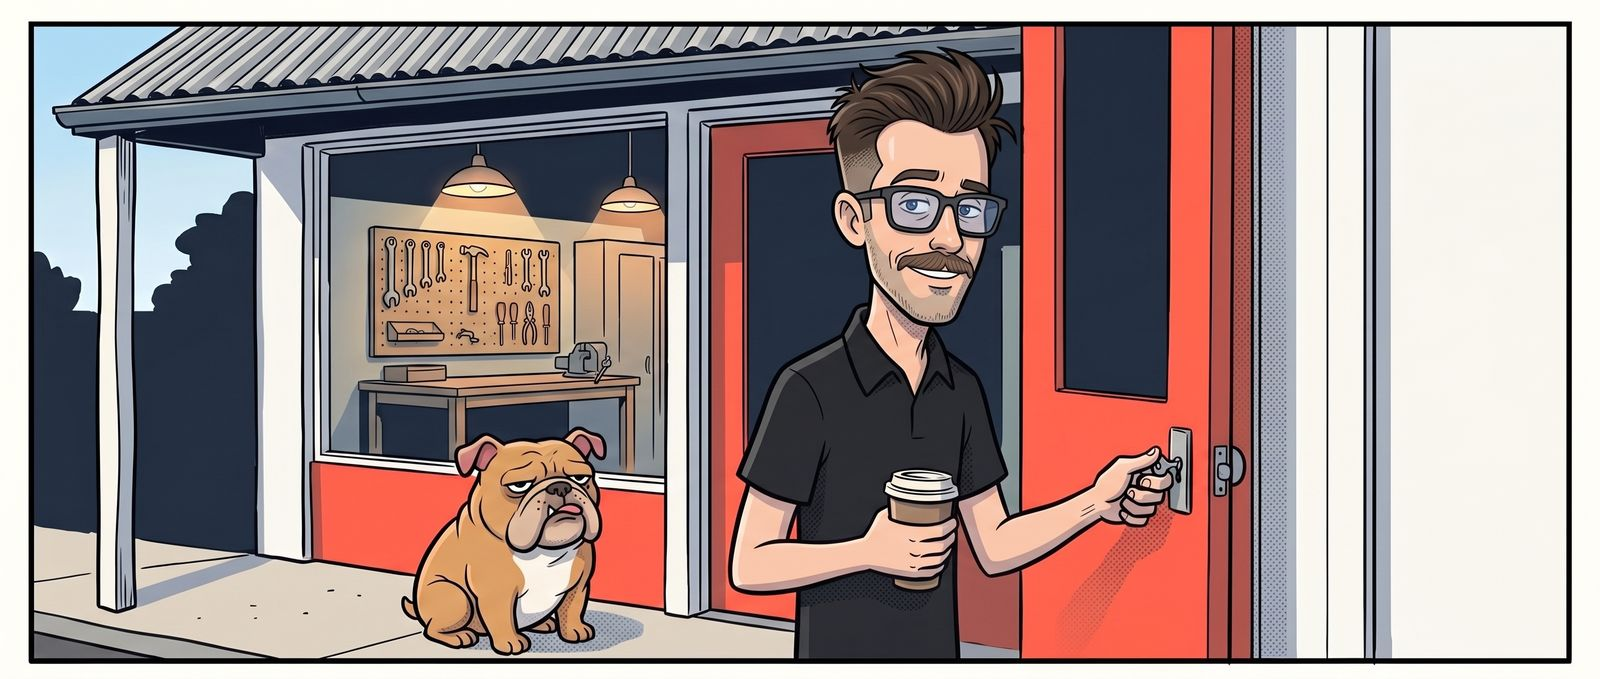
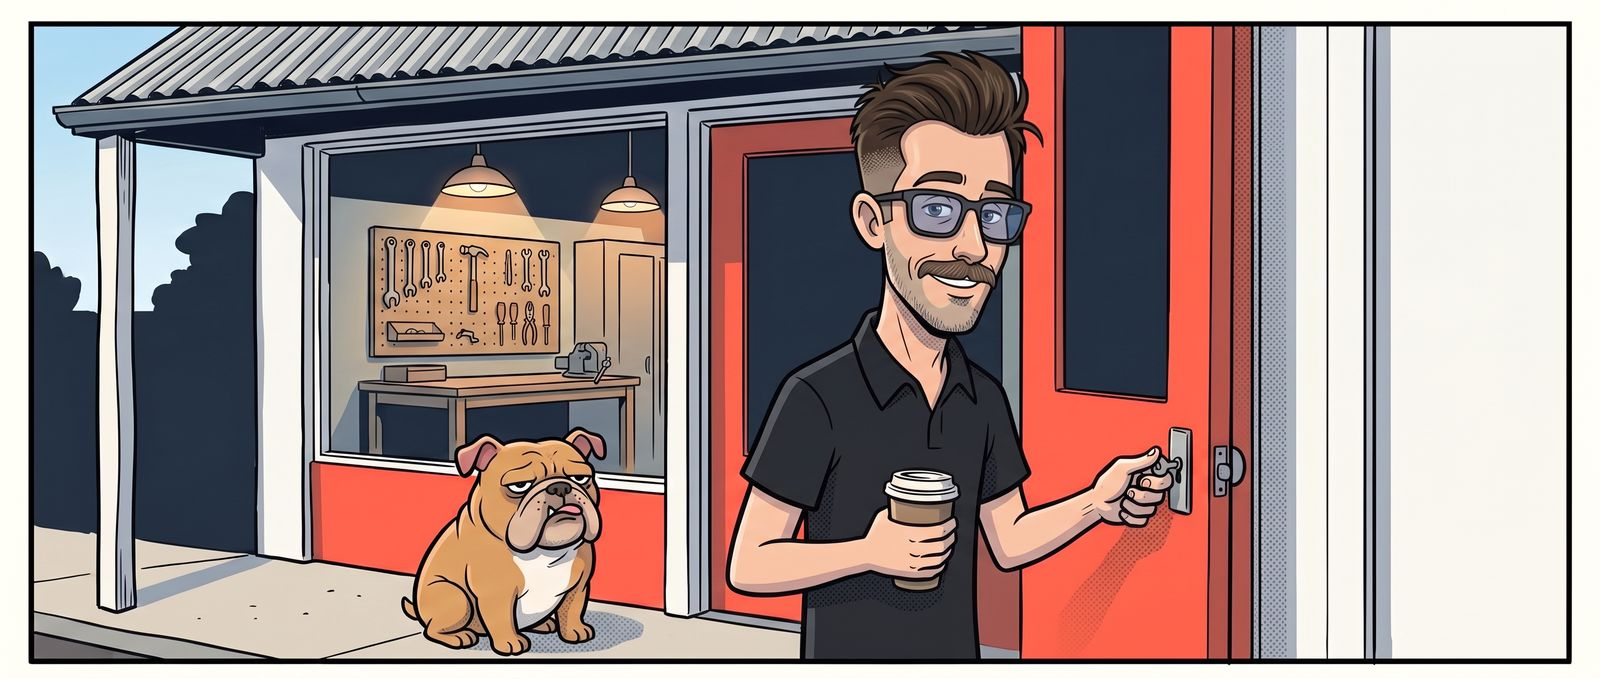
Welcome picture: James's actual pick, version 1
Claude-Session: https://claude.ai/code/session_01D7btmxS42CJDTZ8XWTTJ4H

diff --git a/CLAUDE.md b/CLAUDE.md
@@ -2589,7 +2589,7 @@ library as media `9096a02f-4aaf-4bfb-9162-d09e8e58b3d9` (glasses) and
 references for any future picture of him, and edit an approved picture
 rather than starting fresh. `welcome.jpg` on the front page was redrawn the
 same day from the same photos and the approved hero, with the scene kept as
-it was. James picked version 2.
+it was. James picked version 1, the fuller hair.
 James unblocked `upload.higgsfield.ai`, `d8j0ntlcm91z4.cloudfront.net` and
 `d2ol7oe51mr4n9.cloudfront.net` in the environment's network settings on
 17 Oct. Higgsfield files now download and upload directly from this
